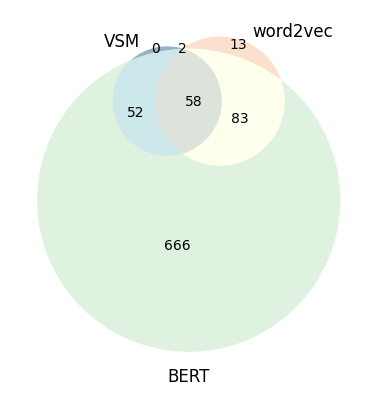
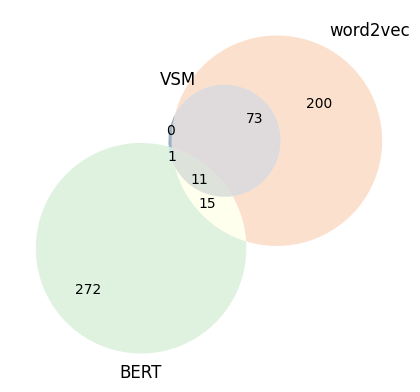
adding charts & results so far

diff --git a/sections/cp5/evaluation.tex b/sections/cp5/evaluation.tex
@@ -8,7 +8,7 @@
 The goal of our evaluation is to assist the design of tools that use the explored techniques to help developers in locating text relevant to their task.
 Therefore, evaluation focuses 
 on determining what portion of the text identified by human annotators the techniques that we explore can automatically identify.
-Experimental setup is as follows.
+Experimental procedures are as follows.
 
 
 
@@ -26,7 +26,7 @@ for all the sentences in an input artifact with regards to an input task and the
 
 
 
-\subsubsection{Techniques Configuration}
+\subsubsection{Setup}
 
 
 
@@ -37,12 +37,12 @@ Researchers have also used the same target number in experimental setups evaluat
 thus, having the same output will facilitate comparing our results to related work.
 
 
-
-Two of our techniques use part of the  \acs{DS-android} data either for fine-tuning purposes (\texttt{BERT}), or to derive sentence-task frame pairs (\texttt{association-pairs}).
-We ensure that no data used to evaluate these techniques is also used to derive frame pairs or to train the BERT model by 
+In addition to configuring the techniques output, two of our techniques use part of the  \acs{DS-android} data for fine-tuning purposes (\texttt{BERT}) and to derive sentence-task frame pairs (\texttt{association-pairs}).
+We ensure that no data used to evaluate these techniques is also used in their setup by 
 splitting the dataset using standard cross-validation techniques.
-We split the dataset into 10 folds, each containing 5 tasks, to evaluate these techniques. The remaining 45 tasks are used to mine sentence-task frame pairs
-and to train BERT. As done by other approaches that require training procedures~\cite{Chaparro2017, fucci2019, Petrosyan2015}, we further split the training data and use 10\% of it to validate the BERT model \red{ref}.
+We split the dataset into 10 folds, each containing 5 tasks used for evaluation purposes. When evaluating a fold, the remaining 45 tasks are used to mine sentence-task frame pairs
+and to train BERT. 
+For the BERT technique, we further split the training data and use 10\% of it to validate the model~\cite{Chaparro2017, fucci2019, Petrosyan2015}.
 We refer to this configuration as \texttt{BERT\textsubscript{DS-android}}.
 
 
@@ -56,9 +56,9 @@ second configuration as \texttt{BERT\textsubscript{DS-synthetic}}.
 
 
 
-Since our goal is to embed the explored techniques into tools that 
-surface or highlight the identified text in an artifact ~\cite{Robillard2015}, 
-use use standard \textit{precision} and \textit{recall} metrics~\cite{manning2010IR} to measure the accuracy of each technique.
+Since our goal is assist developers locate text relevant tot their tasks (e.g., embedding the explored techniques into tools that 
+surface or highlight the identified text in an artifact~\cite{Robillard2015}), 
+we use standard \textit{precision} and \textit{recall} metrics~\cite{manning2010IR} to measure the accuracy of each technique.
 
 
 
@@ -112,34 +112,80 @@ Equations~\ref{eq:cp5:precision} and~\ref{eq:cp5:recall} but treat relevant text
 
 
 
-
-
-\input{sections/cp5/tbl-results-overall}
-
+Figure~\ref{fig:eval-metrics-results} shows values for F1-score, precision, and recall for each of the techniques that we explore as part of our design space. 
 
 
 
+The \texttt{baseline} technique, which uses VSM, achieves precision and recall scores of $0.30$ and $0.33$, respectively. 
+Although this result is not surprising, it corroborates results from related literature showing limitations of lexicon-based approaches, and 
+it further motivates the need for techniques able to relate the information associated with the solution for a task and the information provided in the software task.
 
+
+Using word semantics, precision and recall scores increase to $0.48$ and $0.53$ when using \texttt{word2vec}, and to $0.55$ and $0.56$ with \texttt{BERT}.
+With regards to BERT, we do not observe significant differences between the \texttt{BERT\textsubscript{DS-synthetic}}
+and the \texttt{BERT\textsubscript{DS-android}} configurations suggesting that the model predictions extend to datasets other than the ones used for training.
+A potential explanation for that is that 
+BERT uses \textit{transfer learning} \red{ref} and thus, the  
+large corpora used to train the model before fine-tuning (Section~\ref{cp5:bert}) assists prediction steps even for tasks and artifacts that the model was not trained upon.
+
+
+
+\clearpage
+\begin{landscape}
 
 \begin{figure}
     \centering
-    \includegraphics[width=0.95\textwidth]{cp5/results_lollipop}
-    \caption{Evaluation results for each technique configuration \red{Draft: I will split the figure in 3. One for each metric. The markers will represent the filters}}
-    % \label{fig:webview-task}
+    \includegraphics[width=1.8\textwidth]{cp5/results}
+    \caption{Evaluation metrics for each techniques \art{image resolution has been finicky. I'll fix it and have the image in-line with the rest of the results}}
+    \label{fig:eval-metrics-results}
 \end{figure}
+\end{landscape}
+
+\clearpage
 
 
+
+
+
+Figure~\ref{fig:eval-metrics-results} also shows results when applying sentence semantic filters to \texttt{word2vec} and \texttt{BERT}. 
+Both filters improve precision and recall values for the \texttt{word2vec} technique, where the \texttt{association-pairs} filter yields 
+the highest results ($0.53$ precision and $0.54$ recall). When paired with \texttt{BERT}, there are no noticeable changes to precision, but 
+we observe gains on recall. Notably, the \texttt{frame-elements} filter achieves $0.60$ recall for \texttt{BERT\textsubscript{DS-android}}. 
+
+
+\red{Conclusion for the results}
+
+
+
+
+
+
+
+
+
+
+
+
+
+% Table~\ref{tbl:approach-results-overall} reports pyramid precision and pyramid recall values for the VSM \texttt{baseline} as well as for the best configuration of the semantic techniques, i.e., .
+
+% \input{sections/cp5/tbl-results-overall}
+
+
+
+
+% When interpreting results, it is worth noting that due to the nature of \acs{DS-android} corpus, the fraction of sentences annotated as relevant is considerable small,
+% e.g., API documents in the corpus have an average of 109.22 sentences per document while only an average of 9.62 sentences are relevant (Chapter~\ref{ch:android-corpus}). 
+% Hence, achieving 
+% This means that the data is unbalanced and achieving high accuracy is challenging even when using state-of-the-art techniques.
 
 
 
 
 
 % \art{Change from tables to plots. Similar to Sarah and Treude~\cite{nadi2020}, show Venn diagram with how many sentences each approach identifies and overlaps between them}
-\art{Consider changing from tables to plots.}
 
-\art{I've got all results without seframe filters. This week, filters will be my main focus}
 
-% \input{sections/cp5/tbl-results-with-filters}
 
 
 % \input{sections/cp5/tbl-results-by-artifact}

diff --git a/sections/cp5/tbl-results-overall.tex b/sections/cp5/tbl-results-overall.tex
@@ -6,7 +6,7 @@
 
 
 \textbf{technique} & 
-\textbf{precision} & \textbf{recall} & \textbf{f1-score} & 
+\textbf{precision} & \textbf{recall} & 
 $\Delta$ \textbf{precision} & $\Delta$ \textbf{recall} \\
 
 
@@ -14,23 +14,23 @@ $\Delta$ \textbf{precision} & $\Delta$ \textbf{recall} \\
 
 
 \texttt{baseline} &
-0.30 & 0.33 & 0.26 & 
+0.30 & 0.33 &  
 0.38 & 0.48 
 \\
 
-\texttt{word2vec} &
-0.46 & 0.45 & 0.41 & 
-0.50 & 0.53
+\texttt{word2vec + association-pairs} &
+0.52 & 0.53 &  
+0.52 & 0.51
 \\
 
-\texttt{BERT\textsubscript{DS-synthetic}} &
-0.50 & 0.53 & 0.41 & 
-0.52 & 0.55 
-\\
+% \texttt{BERT\textsubscript{DS-synthetic}} &
+% 0.54 & 0.55 & 0.51 & 
+% 0.55 & 0.57 
+% \\
 
-\texttt{BERT\textsubscript{DS-android}} &
-0.54 & 0.60 & 0.46 & 
-0.56 & 0.58 
+\texttt{BERT\textsubscript{DS-android} + frame-elements} &
+0.55 & 0.56 & 
+0.55 & 0.56 
 \\
 
 \hline
@@ -38,7 +38,7 @@ $\Delta$ \textbf{precision} & $\Delta$ \textbf{recall} \\
 \end{tabular}
 \end{threeparttable}
 \end{small}
-\caption{Accuracy results}
+\caption{Pyramid precision, pyramid recall comparison}
 \label{tbl:approach-results-overall}
 \end{table}
 
